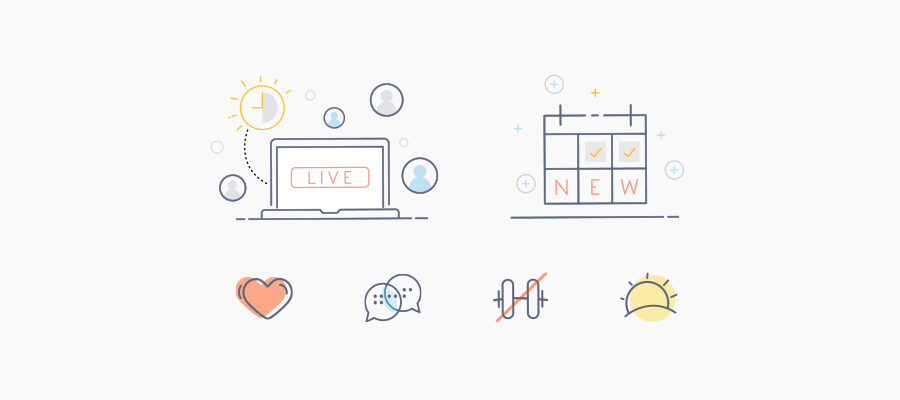
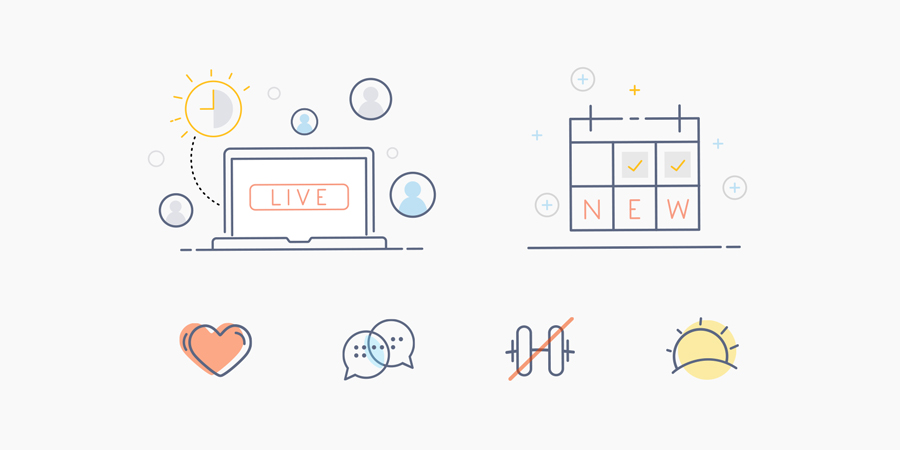
Add new gallery and other changes

diff --git a/project/illos/index.html b/project/illos/index.html
@@ -46,14 +46,14 @@
     <main style="">
     <div class="project">
   
-    <img src="/project/a-lovely-party/1_alp_project_hero.jpg">
+    <img src="/project/illos/01_illos_project_hero.jpg">
   
   <section class="description">
     <div class="title-tags">
-      <div class="tags">art direction, creative direction and photography</div>
-      <h1 class="title">A Lovely Party</h1>
+      <div class="tags">Miscellaneous graphics &amp; campaigns</div>
+      <h1 class="title">Illustration Gallery</h1>
     </div>
-    <div class="content"><p>I was asked to bring fun, ease and celebration to life to A Lovely Party brand identity. The A Lovely Party product is a party kit with specially hand made decorations ranging from center pieces to intricate paper cut-outs. I used ALP’s decorations as an inspiring canvas to create a vibrant and friendly take on how we share and celebrate out most special days. The identity was applied to website, and social campaigns.</p>
+    <div class="content"><p>Creating diverse and unique visuals is one of my favorite design projects. From a single illustration, icon collection kit or poster graphics my illustrations projects are bold, whimsical and engaging. Below is a selection of various illustrations created for different clients.</p>
 </div>
   </section>
   
@@ -61,57 +61,55 @@
   
   
   
-  <img src="/project/a-lovely-party/2_alp_project_grid.jpg">
+  <img src="/project/illos/02_illos_project_food-1.jpg">
   
   
   
   
   
-  <img src="/project/a-lovely-party/3_alp_project_logo.jpg">
+  <img src="/project/illos/03_illos_project_food-2.jpg">
   
   
   
   
   
-  <img src="/project/a-lovely-party/4_alp_project_image-3.jpg">
+  <img src="/project/illos/04_illos_project_icons.jpg">
   
   
   
   
   
-  <img src="/project/a-lovely-party/4_alp_project_logo_colors.jpg">
+  <img src="/project/illos/05_illos_project_download.jpg">
   
   
   
   
   
-  <img src="/project/a-lovely-party/5_alp_project_alt_colors.jpg">
-  
-  
-  <p>I wanted to extend the happiness felt at parties to the logo, photography and use of color in all the creatives. My goal was to showcase fun, lightheartedness, and joy.</p>
-  
-  
-  
-  
-  <img src="/project/a-lovely-party/6_alp_project_images-1.jpg">
+  <img src="/project/illos/06_illos_project_fav.jpg">
   
   
   
   
   
-  <img src="/project/a-lovely-party/7_alp_project_images-2.jpg">
+  <img src="/project/illos/07_illos_project_connect.jpg">
   
   
   
   
   
-  <img src="/project/a-lovely-party/8_alp_project_stationary.jpg">
+  <img src="/project/illos/08_illos_project_steps.jpg">
   
   
   
   
   
-  <img src="/project/a-lovely-party/9_alp_project_social.jpg">
+  <img src="/project/illos/09_illos_project_play.jpg">
+  
+  
+  
+  
+  
+  <img src="/project/illos/10_illos_project_sweets.jpg">
   
   
   
@@ -122,7 +120,7 @@
 <section class="blue cta">
   <p>More projects this way</p>
   
-  <a href="/project/logos/" class="button">View next project</a>
+  <a href="/project/undefeated/" class="button">View next project</a>
   
 </section>
     </main>

diff --git a/project/undefeated/index.html b/project/undefeated/index.html
@@ -4,7 +4,7 @@
     <meta charset="UTF-8">
     <meta http-equiv="X-UA-Compatible" content="IE=edge,chrome=1">
     <meta name="viewport" content="width=device-width,initial-scale=1">
-    <meta name="generator" content="Hugo 0.37.1" />
+    <meta name="generator" content="Hugo 0.39" />
     <link rel="icon" type="image/png" sizes="32x32" href="/img/favicon.png">
     <link rel="stylesheet" href="https://angelreyt.github.io/css/normalize.css">
     <link rel="stylesheet" href="https://angelreyt.github.io/css/base.css">
@@ -46,7 +46,7 @@
     <main style="">
     <div class="project">
   
-    <img src="/project/undefeated/1_undef_project_hero.jpg">
+    <img src="/project/undefeated/01_undef_project_hero.jpg">
   
   <section class="description">
     <div class="title-tags">
@@ -64,13 +64,13 @@ Photography: Ryan Kelly</p>
   
   
   
-  <img src="/project/undefeated/2_undef_project_image_1.jpg">
+  <img src="/project/undefeated/02_undef_project_image_1.jpg">
   
   
   
   
   
-  <img src="/project/undefeated/3_undef_project_logo.jpg">
+  <img src="/project/undefeated/03_undef_project_logo.jpg">
   
   
   <p>Variations of the logo were created, each different from each other to capture the air of unwavering relentlessness, strong character and graceful ruggedness of the program. The final logo mark was inspired by cursive lettering and the juxtaposition of street graffiti art.</p>
@@ -78,31 +78,43 @@ Photography: Ryan Kelly</p>
   
   
   
-  <img src="/project/undefeated/4_undef_project_logo_colors.jpg">
+  <img src="/project/undefeated/04_undef_project_evolution.gif">
   
   
   
   
   
-  <img src="/project/undefeated/5_undef_phoenix_2.jpg">
+  <img src="/project/undefeated/05_undef_project_logo_colors.jpg">
   
   
   
   
   
-  <img src="/project/undefeated/6_undef_project_laptop.jpg">
+  <img src="/project/undefeated/06_undef_phoenix_2.jpg">
   
   
   
   
   
-  <img src="/project/undefeated/7_undef_project_social.jpg">
+  <img src="/project/undefeated/07_undef_project_laptop.jpg">
   
   
   
   
   
-  <img src="/project/undefeated/8_undef_project_social_2.jpg">
+  <img src="/project/undefeated/08_undef_project_banners.jpg">
+  
+  
+  
+  
+  
+  <img src="/project/undefeated/09_undef_project_social.jpg">
+  
+  
+  
+  
+  
+  <img src="/project/undefeated/10_undef_project_social_2.jpg">
   
   
   

diff --git a/project/daily-burn--daily-burn-365/index.html b/project/daily-burn--daily-burn-365/index.html
@@ -4,7 +4,7 @@
     <meta charset="UTF-8">
     <meta http-equiv="X-UA-Compatible" content="IE=edge,chrome=1">
     <meta name="viewport" content="width=device-width,initial-scale=1">
-    <meta name="generator" content="Hugo 0.37.1" />
+    <meta name="generator" content="Hugo 0.39" />
     <link rel="icon" type="image/png" sizes="32x32" href="/img/favicon.png">
     <link rel="stylesheet" href="https://angelreyt.github.io/css/normalize.css">
     <link rel="stylesheet" href="https://angelreyt.github.io/css/base.css">
@@ -70,6 +70,8 @@
   <img src="/project/daily-burn--daily-burn-365/03_365_project_font.jpg">
   
   
+  <p>Daily Burn identity was created by an outside creative agency. The challenge was to create and keep a flexible enough Daily Burn 365 brand system to grow and develop with the brand as we created more content and partnered with brands.</p>
+  
   
   
   
@@ -100,6 +102,8 @@
   <img src="/project/daily-burn--daily-burn-365/08_365_project_lp.jpg">
   
   
+  <p>The brand also extended to support illustrations and icons, color palette coordination for studio shoots and airing, a library of retouched imagery for social graphics, and design and direction for all final applications.</p>
+  
   
   
   
@@ -118,6 +122,8 @@
   <img src="/project/daily-burn--daily-burn-365/11_365_project_emails.jpg">
   
   
+  <p>Daily Burn 365 kept people engaged and accountable with daily workout previews, workout summaries, and weekly newsletters. I developed an email template system to make sure that the 365 vibrant human connections were the main focus of all design elements.</p>
+  
   
   
   
@@ -132,7 +138,7 @@
 <section class="blue cta">
   <p>More projects this way</p>
   
-  <a href="/project/undefeated/" class="button">View next project</a>
+  <a href="/project/illos/" class="button">View next project</a>
   
 </section>
     </main>

diff --git a/index.html b/index.html
@@ -4,7 +4,7 @@
     <meta charset="UTF-8">
     <meta http-equiv="X-UA-Compatible" content="IE=edge,chrome=1">
     <meta name="viewport" content="width=device-width,initial-scale=1">
-    <meta name="generator" content="Hugo 0.37.1" />
+    <meta name="generator" content="Hugo 0.39" />
     <link rel="icon" type="image/png" sizes="32x32" href="/img/favicon.png">
     <link rel="stylesheet" href="https://angelreyt.github.io/css/normalize.css">
     <link rel="stylesheet" href="https://angelreyt.github.io/css/base.css">
@@ -57,6 +57,17 @@
       
       <div class="overlay">
         <div class="text">Daily Burn &amp; Daily Burn 365</div>
+      </div>
+      </a>
+    </div>
+    
+    <div class="gallery-item">
+      <a href="/project/illos/">
+      
+        <img src="/project/illos/home_illos.png">
+      
+      <div class="overlay">
+        <div class="text">Illustration Gallery</div>
       </div>
       </a>
     </div>

diff --git a/about/index.html b/about/index.html
@@ -4,7 +4,7 @@
     <meta charset="UTF-8">
     <meta http-equiv="X-UA-Compatible" content="IE=edge,chrome=1">
     <meta name="viewport" content="width=device-width,initial-scale=1">
-    <meta name="generator" content="Hugo 0.37.1" />
+    <meta name="generator" content="Hugo 0.39" />
     <link rel="icon" type="image/png" sizes="32x32" href="/img/favicon.png">
     <link rel="stylesheet" href="https://angelreyt.github.io/css/normalize.css">
     <link rel="stylesheet" href="https://angelreyt.github.io/css/base.css">

diff --git a/contact/index.html b/contact/index.html
@@ -4,7 +4,7 @@
     <meta charset="UTF-8">
     <meta http-equiv="X-UA-Compatible" content="IE=edge,chrome=1">
     <meta name="viewport" content="width=device-width,initial-scale=1">
-    <meta name="generator" content="Hugo 0.37.1" />
+    <meta name="generator" content="Hugo 0.39" />
     <link rel="icon" type="image/png" sizes="32x32" href="/img/favicon.png">
     <link rel="stylesheet" href="https://angelreyt.github.io/css/normalize.css">
     <link rel="stylesheet" href="https://angelreyt.github.io/css/base.css">

diff --git a/project/barre-harmony/index.html b/project/barre-harmony/index.html
@@ -4,7 +4,7 @@
     <meta charset="UTF-8">
     <meta http-equiv="X-UA-Compatible" content="IE=edge,chrome=1">
     <meta name="viewport" content="width=device-width,initial-scale=1">
-    <meta name="generator" content="Hugo 0.37.1" />
+    <meta name="generator" content="Hugo 0.39" />
     <link rel="icon" type="image/png" sizes="32x32" href="/img/favicon.png">
     <link rel="stylesheet" href="https://angelreyt.github.io/css/normalize.css">
     <link rel="stylesheet" href="https://angelreyt.github.io/css/base.css">

diff --git a/project/logos/index.html b/project/logos/index.html
@@ -4,7 +4,7 @@
     <meta charset="UTF-8">
     <meta http-equiv="X-UA-Compatible" content="IE=edge,chrome=1">
     <meta name="viewport" content="width=device-width,initial-scale=1">
-    <meta name="generator" content="Hugo 0.37.1" />
+    <meta name="generator" content="Hugo 0.39" />
     <link rel="icon" type="image/png" sizes="32x32" href="/img/favicon.png">
     <link rel="stylesheet" href="https://angelreyt.github.io/css/normalize.css">
     <link rel="stylesheet" href="https://angelreyt.github.io/css/base.css">
